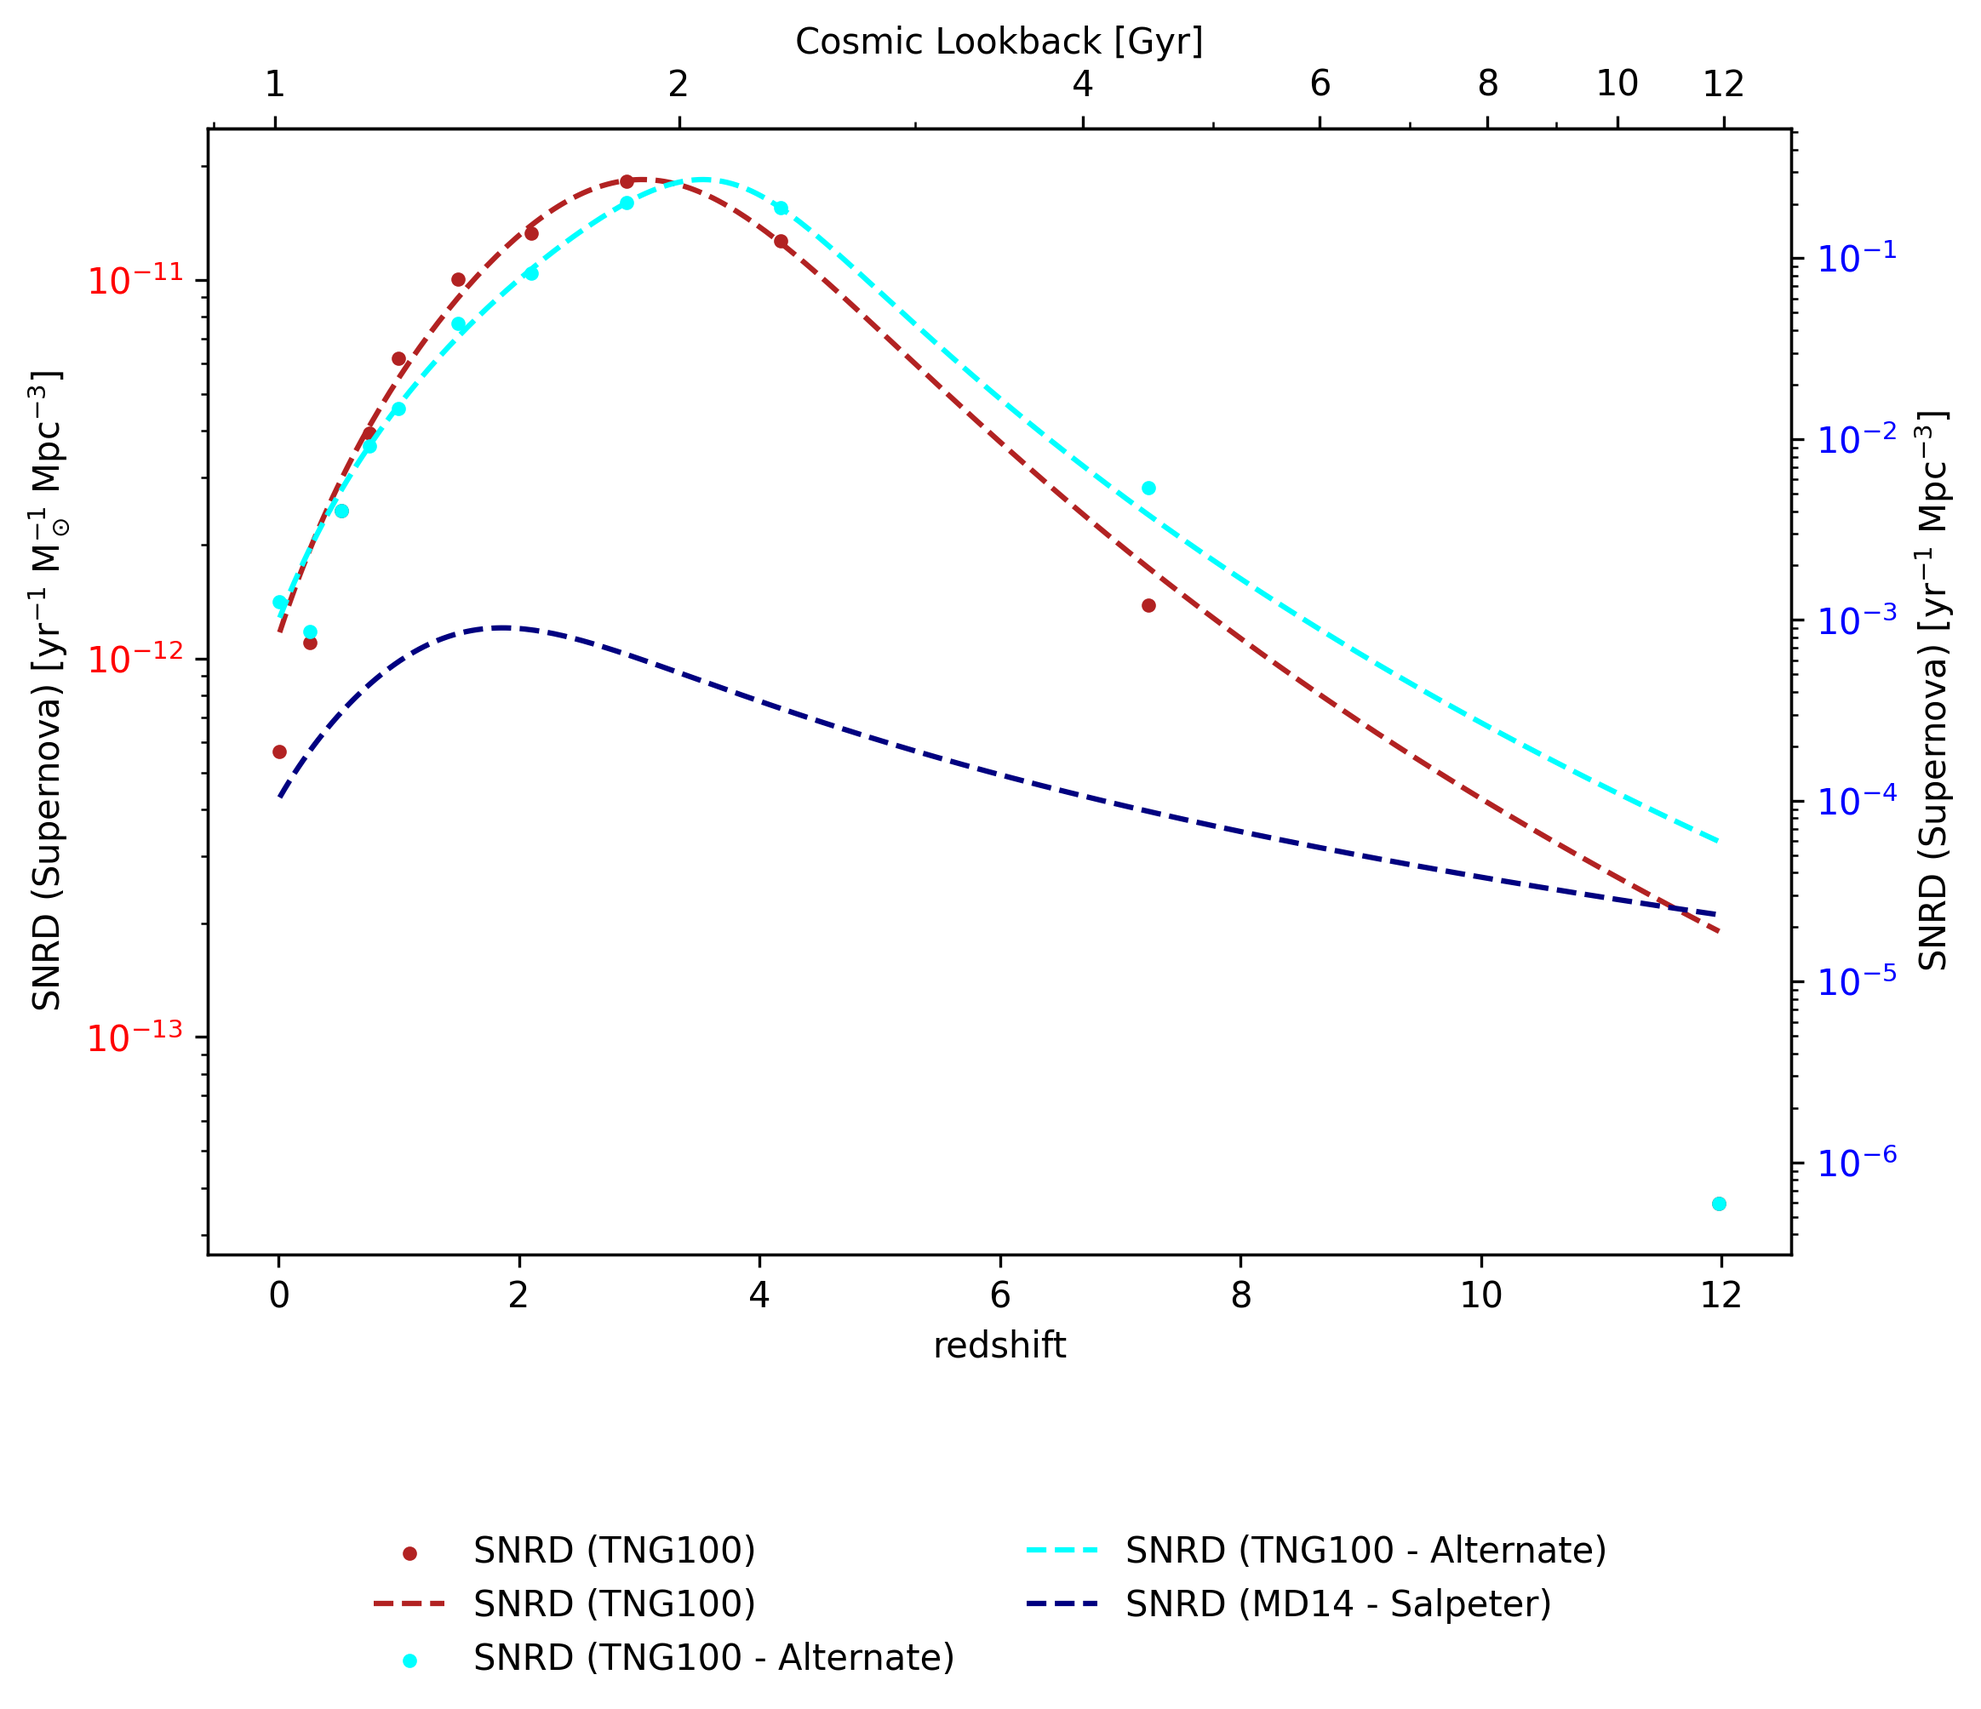
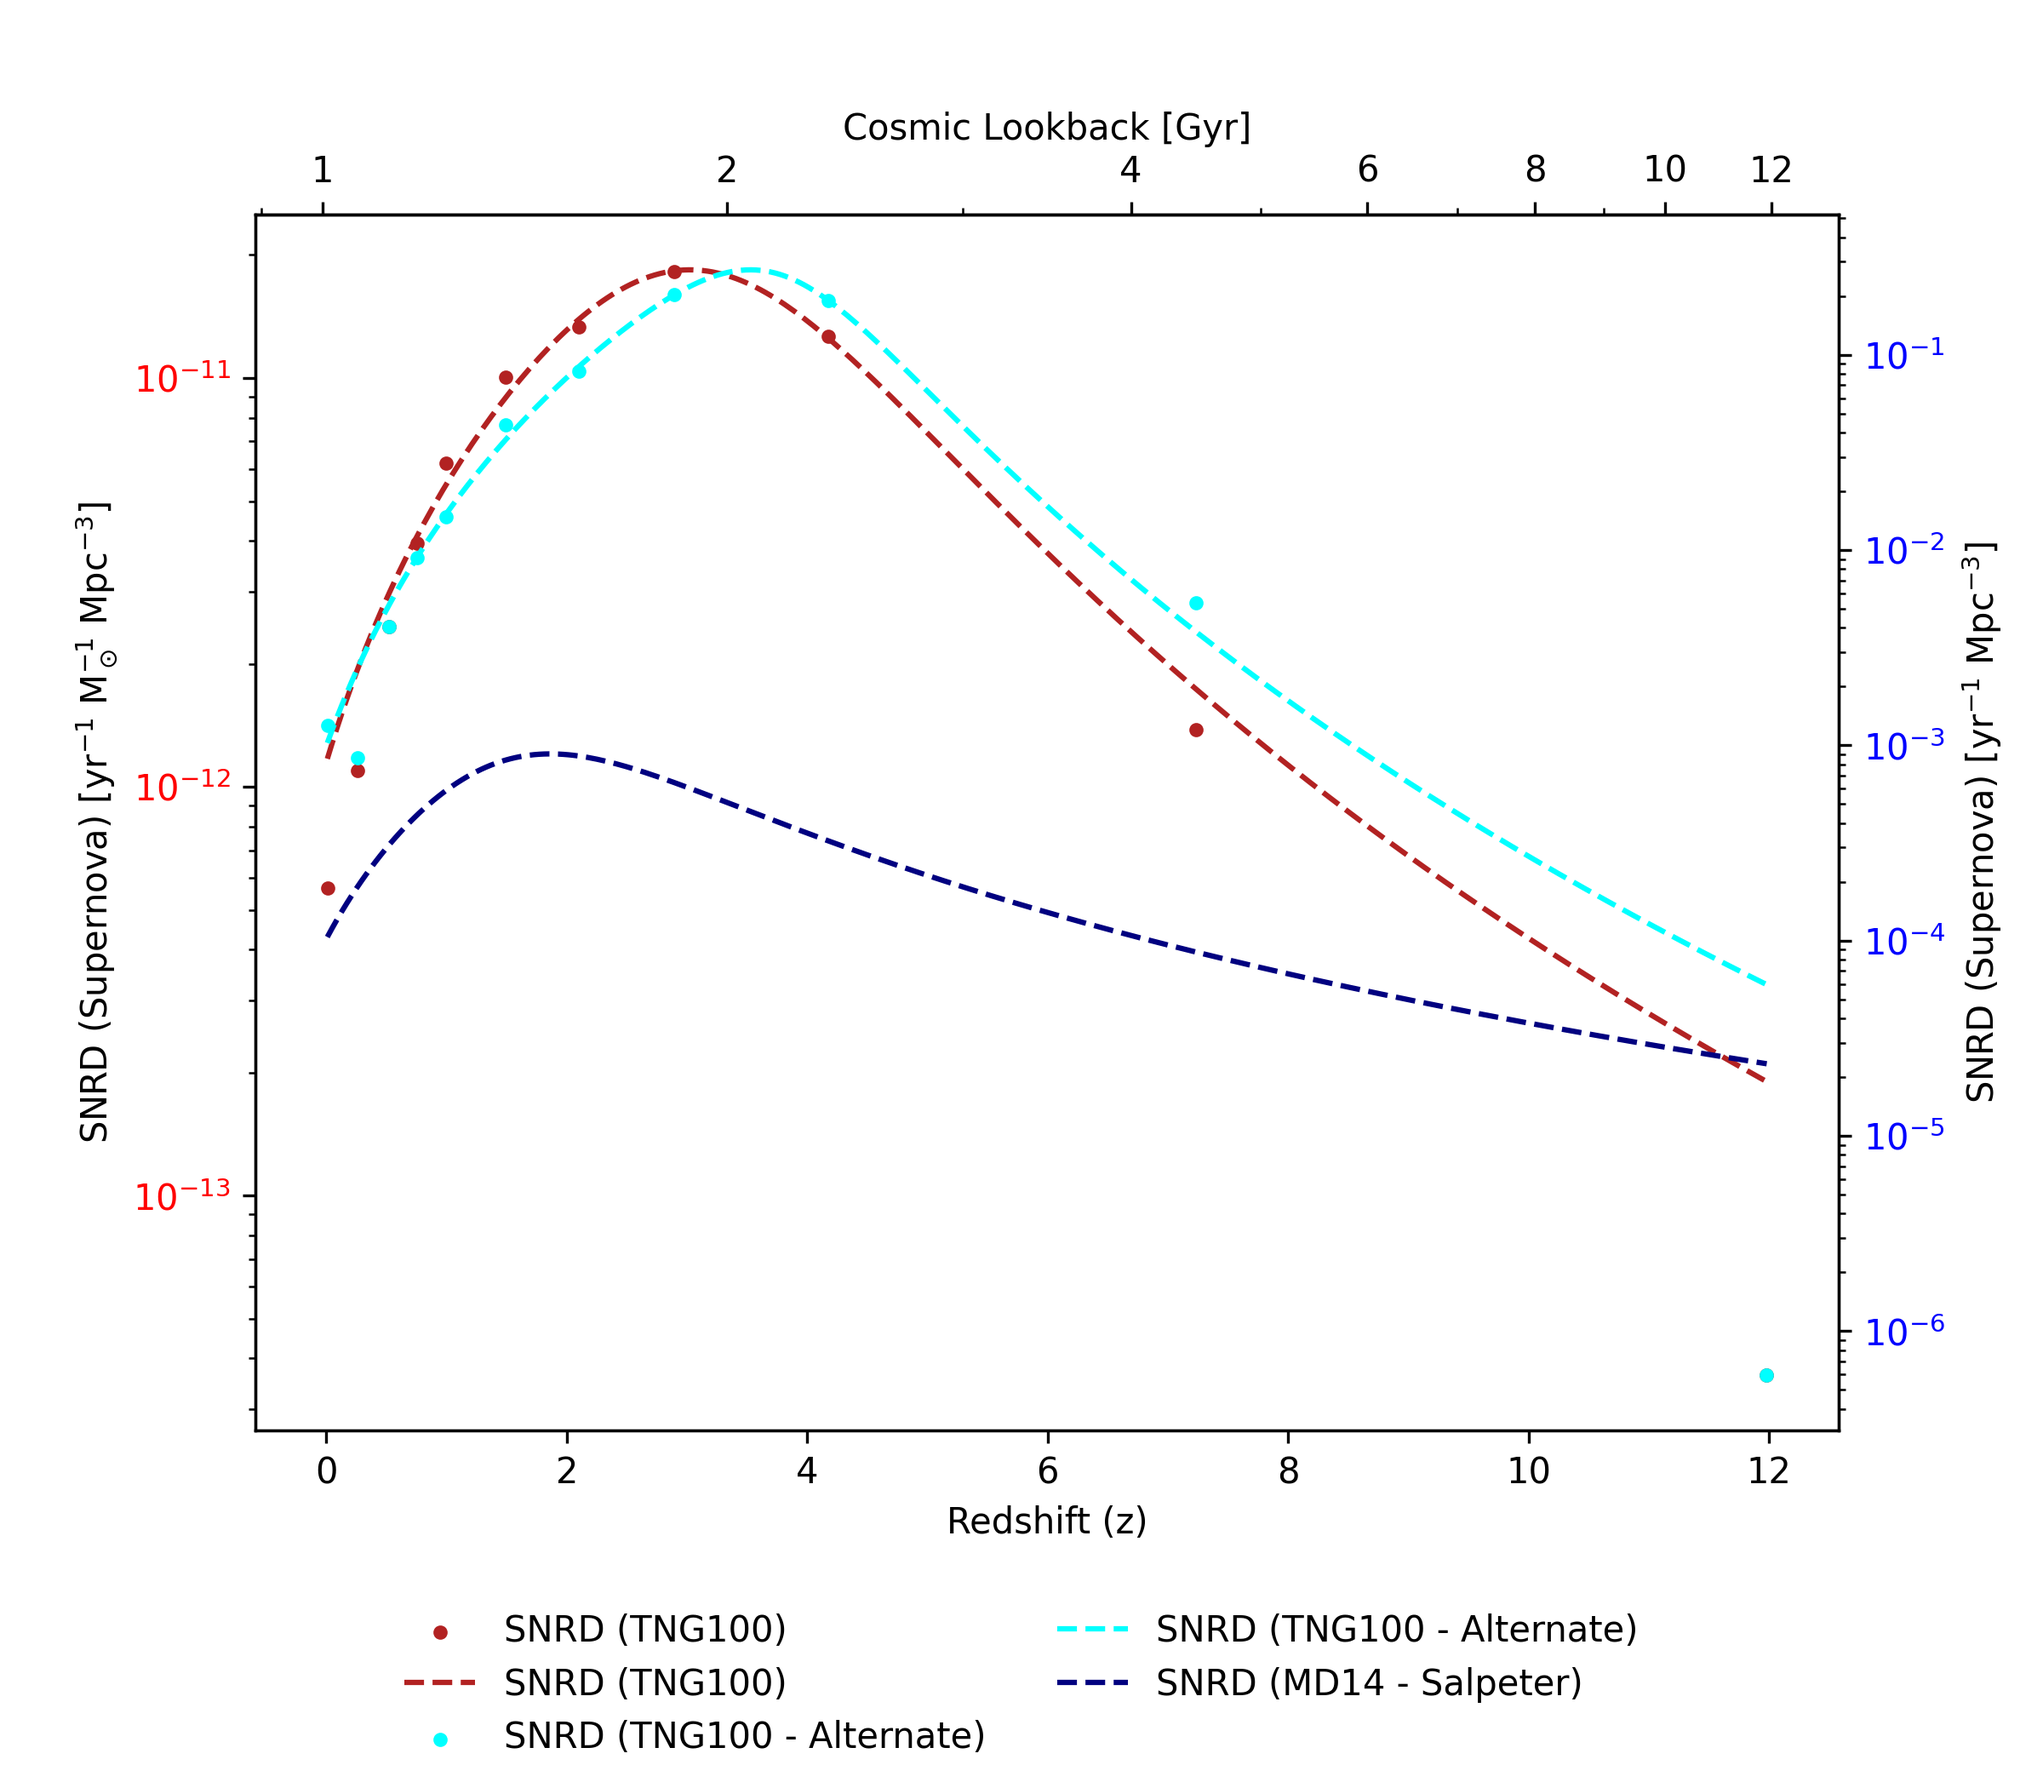
new plots

diff --git a/tng.py b/tng.py
@@ -301,7 +301,7 @@ def plt_labels_multiple(fig, axs, col):
 # set up cosmic history plots
 def plt_cosmo(redshifts, ylabel, ytwin=None, space=None):
 
-    fig_cosmo, ax_cosmo1 = plt_helper(8, 7, 'redshift', ylabel, logx=False, legendspace=space)
+    fig_cosmo, ax_cosmo1 = plt_helper(8, 7, 'Redshift (z)', ylabel, logx=False, legendspace=space)
 
     lookback_time_grid = cosmo.lookback_time(redshifts).value  # in Gyr
     redshift_to_age = interp1d(redshifts, lookback_time_grid, bounds_error=False, fill_value="extrapolate")
@@ -488,7 +488,7 @@ def cosmic_level(snaps):
     csnrh = csfrh * 0.0068
     
     # CSNRH plot
-    fig_csnrh, ax_csnrh1, ax_csnrh2 = plt_cosmo(rev_redshifts, r'SNRD (Supernova) [$\mathrm{yr^{-1}\ M_\odot^{-1}\ Mpc^{-3}}$]', r'SNRD (Supernova) [$\mathrm{yr^{-1}\ Mpc^{-3}}$]', space=0.25)
+    fig_csnrh, ax_csnrh1, ax_csnrh2 = plt_cosmo(rev_redshifts, r'SNRD (Supernova) [$\mathrm{yr^{-1}\ M_\odot^{-1}\ Mpc^{-3}}$]', r'SNRD (Supernova) [$\mathrm{yr^{-1}\ Mpc^{-3}}$]', space=0.2)
     # scatters
     #sc_csnrh1 = ax_csnrh1.scatter(rev_redshifts, rev_snrd, color='Red', label='SNRD (TNG100)', marker='.')
     sc_csnrh2 = ax_csnrh1.scatter(rev_redshifts, rev_snrd_1000_scaled, color='firebrick', label="SNRD (TNG100)", marker='.')
@@ -502,7 +502,7 @@ def cosmic_level(snaps):
     ls_csnrh5, = ax_csnrh2.plot(redshift_linespace, csnrh, linestyle='--', color='Navy', label="SNRD (MD14 - Salpeter)")
 
     # CSFRH plot
-    fig_csfrh, ax_csfrd, _ = plt_cosmo(rev_redshifts, r'SFRD (Star Formation) [$\mathrm{M_\odot\ yr^{-1}\ Mpc^{-3}}$]', space=0.2)
+    fig_csfrh, ax_csfrd, _ = plt_cosmo(rev_redshifts, r'SFRD (Star Formation) [$\mathrm{M_\odot\ yr^{-1}\ Mpc^{-3}}$]', space=0.15)
     # scatters
     #sc2 = ax_csfrd.scatter(rev_redshifts, rev_sfrd_1000, color='Green', label='SFRD (TNG100 - Top 1000)', marker='.')
     sc2 = ax_csfrd.scatter(rev_redshifts, rev_sfrd_all, color='lime', label='SFRD (TNG100 - All)', marker='.')
@@ -531,7 +531,8 @@ if build == True:
 halo_level(snapshots)
 cosmic_level(snapshots)
 
-for fig_num in plt.get_fignums():
-    plt.figure(fig_num).savefig(f"Data/Images/TNG/final/figure_{fig_num}.png", dpi=300, bbox_inches="tight")
+plot_names = ['halo_rates', 'halo_rate_density', 'halo_hist', 'halo_hist_reduced', 'halo_average', 'cosmic_snr', 'cosmic_sfr']
+for idx, fig_num in enumerate(plt.get_fignums()):
+    plt.figure(fig_num).savefig(f"Data/Images/TNG/final/{plot_names[idx]}.png", dpi=300)
 
 #plt.show()
